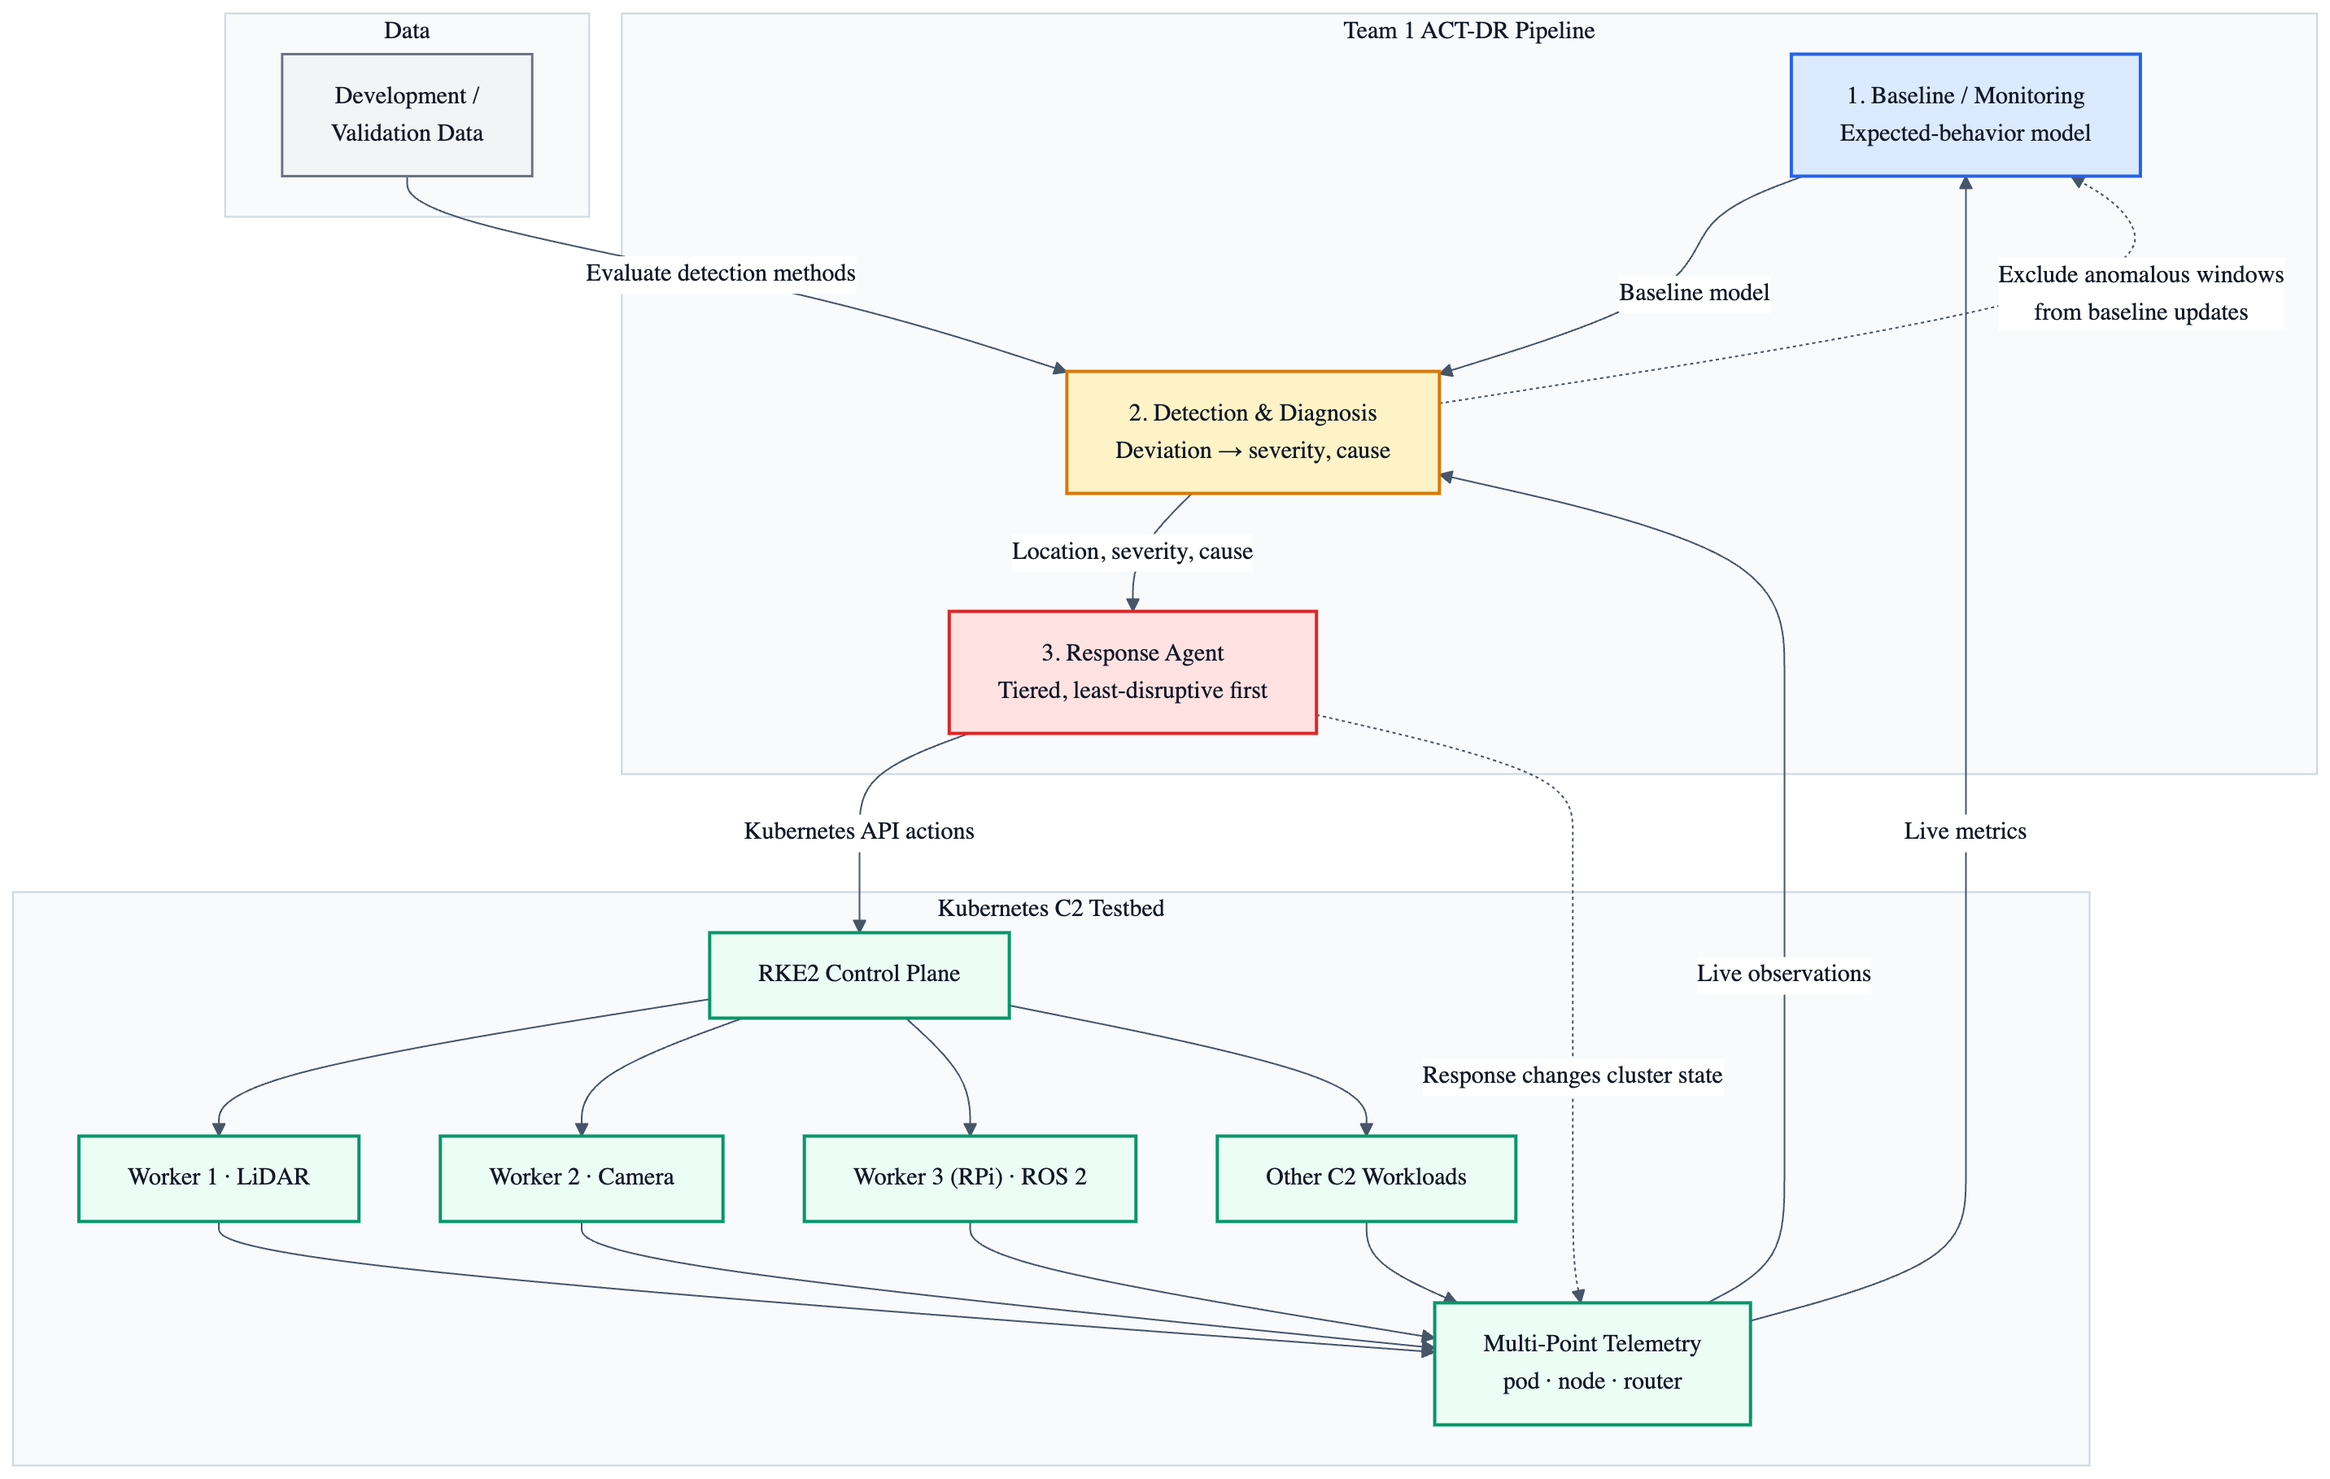
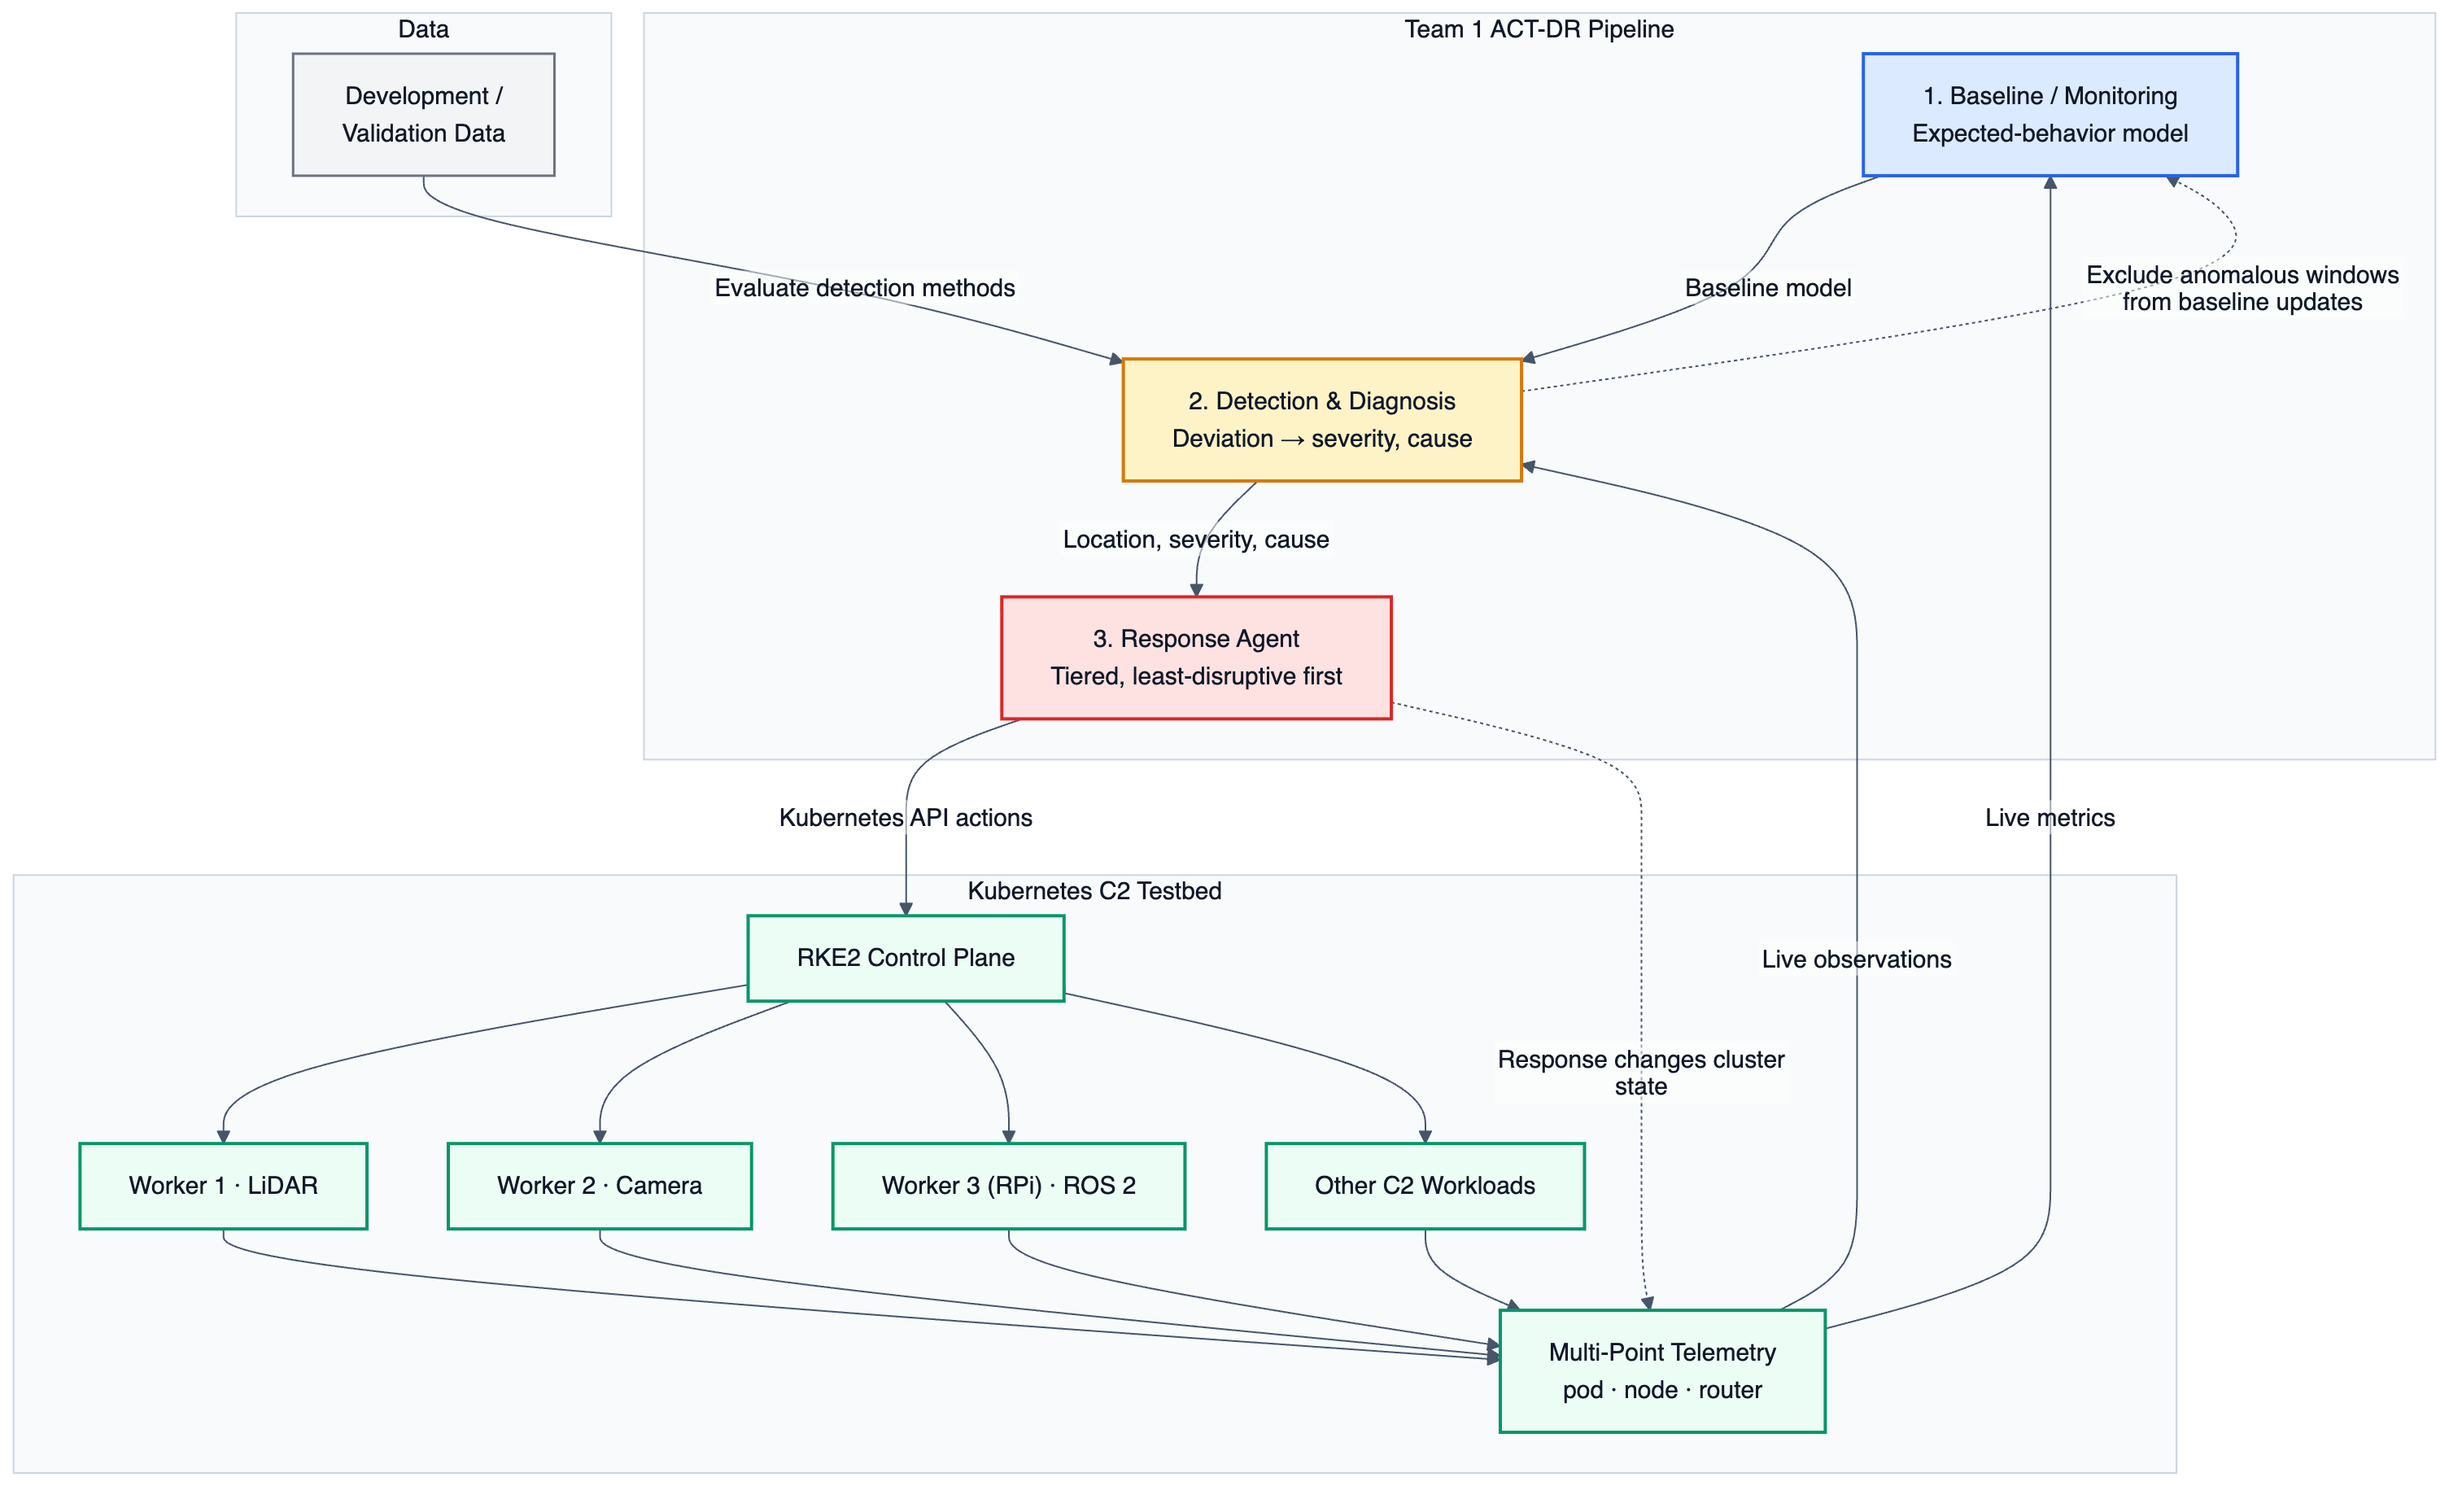
docs: fix clipped subgraph titles and restore inline preview
Root cause: fontFamily contained hyphens (-apple-system, ... , sans-serif),
and Mermaid's directive sanitizer only permits [\d "#%(),.;A-Za-z] in
themeVariables values, so the whole stack was stripped and labels fell
back to the SVG default serif. Mermaid then measured the subgraph titles
in serif but viewers painted them in their own sans font, so the wider
text was cut off by the foreignObject box ('Pipeline' losing its final e).

- fontFamily -> 'Helvetica, Arial' (hyphen-free, so it survives the
  sanitizer and actually applies; verified in the generated CSS)
- htmlLabels:false so subgraph titles render as SVG <text>, which has no
  clipping container and cannot cut a glyph in any viewer font
- export: self-close void HTML tags (<br>) and emit a single xmlns, so the
  SVG is well-formed XML for Word/Illustrator instead of only browsers
- restore the inline PNG preview
- figure is now 1505x913 (1.65:1), still landscape; 0/39 labels below
  WCAG AA in either light or dark

diff --git a/docs/act-dr-architecture.md b/docs/act-dr-architecture.md
@@ -1,5 +1,7 @@
+![Team 1 ACT-DR architecture](act-dr-architecture.png)
+
 ```mermaid
-%%{init: {"theme": "base", "themeVariables": {"fontFamily": "-apple-system,BlinkMacSystemFont,Segoe UI,Helvetica,Arial,sans-serif", "fontSize": "15px", "primaryTextColor": "#111827", "secondaryTextColor": "#111827", "tertiaryTextColor": "#111827", "lineColor": "#475569", "edgeLabelBackground": "#ffffff", "clusterBkg": "#f8fafc", "clusterBorder": "#cbd5e1"}}}%%
+%%{init: {"theme": "base", "flowchart": {"htmlLabels": false}, "themeVariables": {"fontFamily": "Helvetica, Arial", "fontSize": "15px", "primaryTextColor": "#111827", "secondaryTextColor": "#111827", "tertiaryTextColor": "#111827", "lineColor": "#475569", "edgeLabelBackground": "#ffffff", "clusterBkg": "#f8fafc", "clusterBorder": "#cbd5e1"}}}%%
 flowchart TB
 
     subgraph PIPE["Team 1 ACT-DR Pipeline"]
